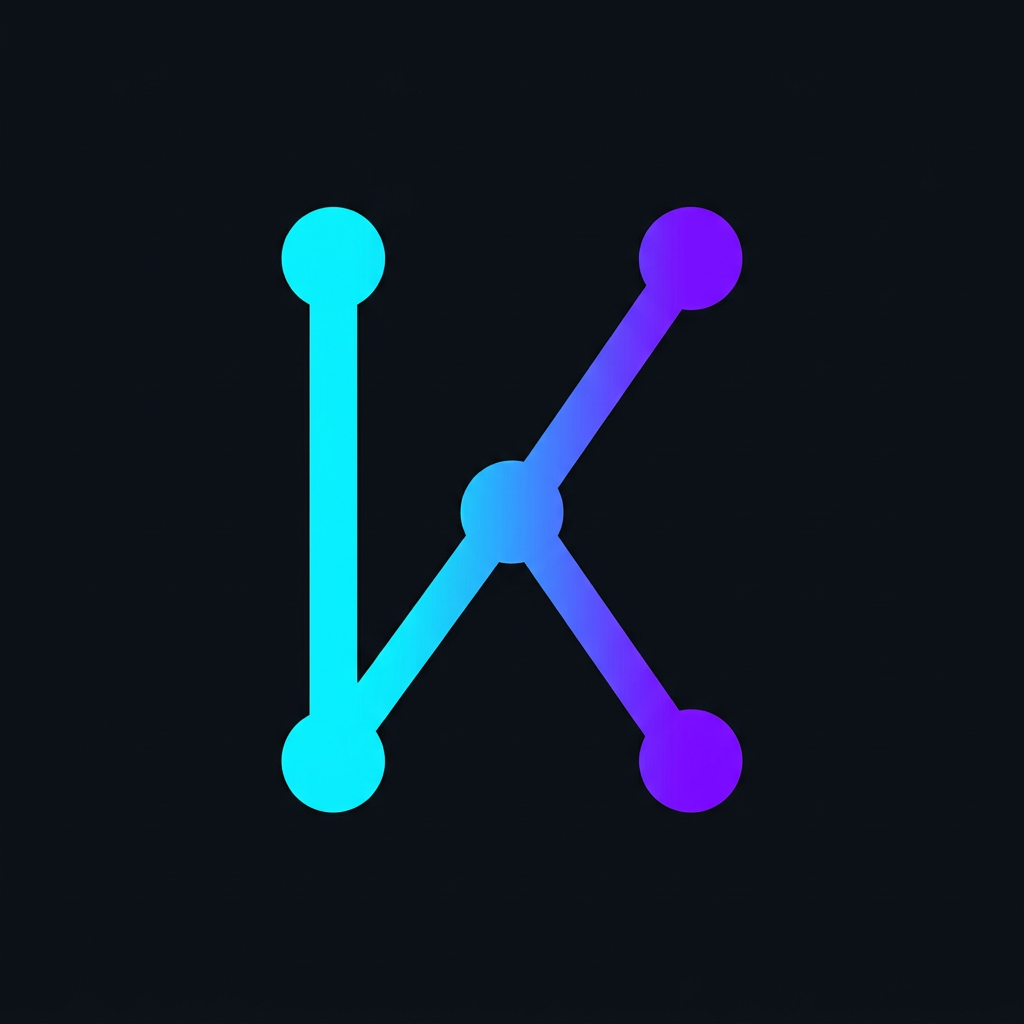
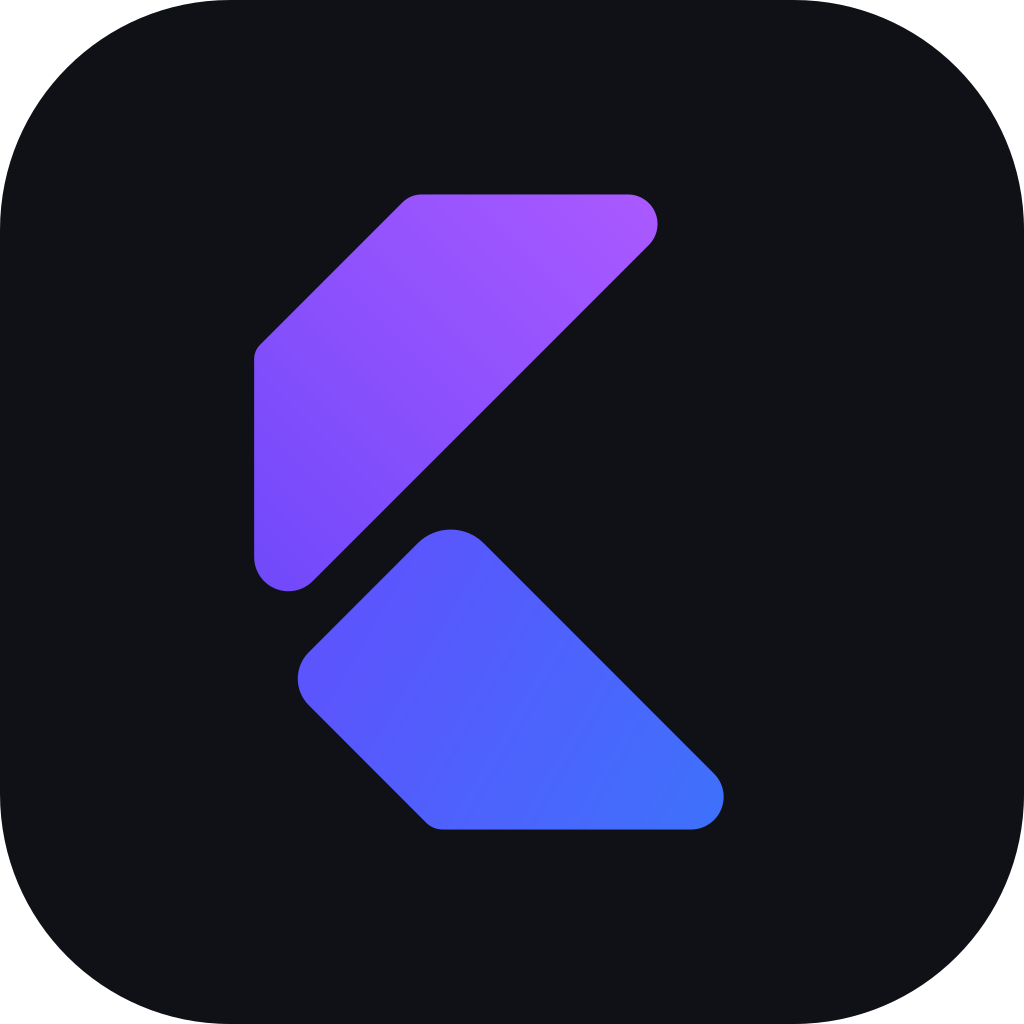
Replace the extension's visual identity with the current brand system (#48)
Replaces the marketplace icon, activity-bar icon, lockups, and README
header with the current brand system. All three carried the retired cyan
glass chevron.

Two of them were also wrong for their surface, independent of the
artwork.

**The activity-bar icon was a full-colour gradient.** VS Code masks
`viewsContainers` icons and recolours them per theme and active state,
so the gradient was being flattened to a single colour anyway. It
becomes the mono mark, which is what that surface expects.

**The README header was `brand/kin-lockup-dark.png` at 1376x768** —
banner proportions under a lockup filename, rendered at `width="100%"`.
Swapping a true lockup into that filename would have stretched a 2.5:1
lockup across the full column. The header now points at a real banner
asset at its specified 1280x640, and the lockup files hold actual
lockups.

**Corner treatment** follows what the surface does: the marketplace does
not mask the extension icon, so it keeps the shaped tile.

`galleryBanner.color` moves from `#0D1117` to the palette's Void
`#0F1117`.

Verified: `package.json` parses and both referenced asset paths resolve;
the README target exists; the mono icon is a single-fill shape that will
recolour cleanly; rendered both icons and checked them at size.

diff --git a/README.md b/README.md
@@ -1,5 +1,5 @@
 <p align="center">
-  <img src="brand/kin-lockup-dark.png" alt="Kin for Visual Studio Code" width="100%" />
+  <img src="brand/kin-banner-dark.png" alt="Kin for Visual Studio Code" width="100%" />
 </p>
 
 # Kin for Visual Studio Code
